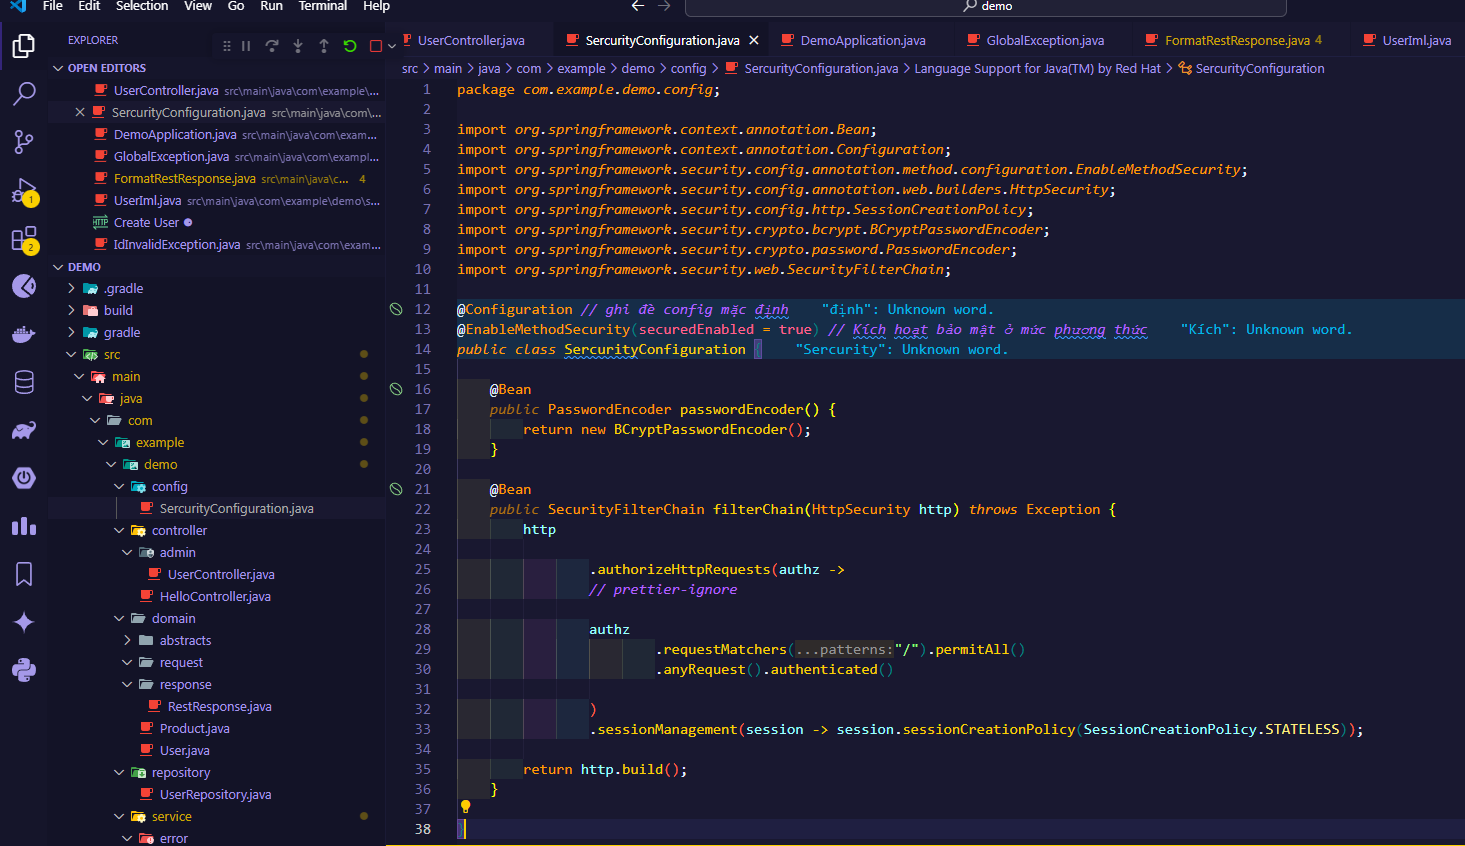
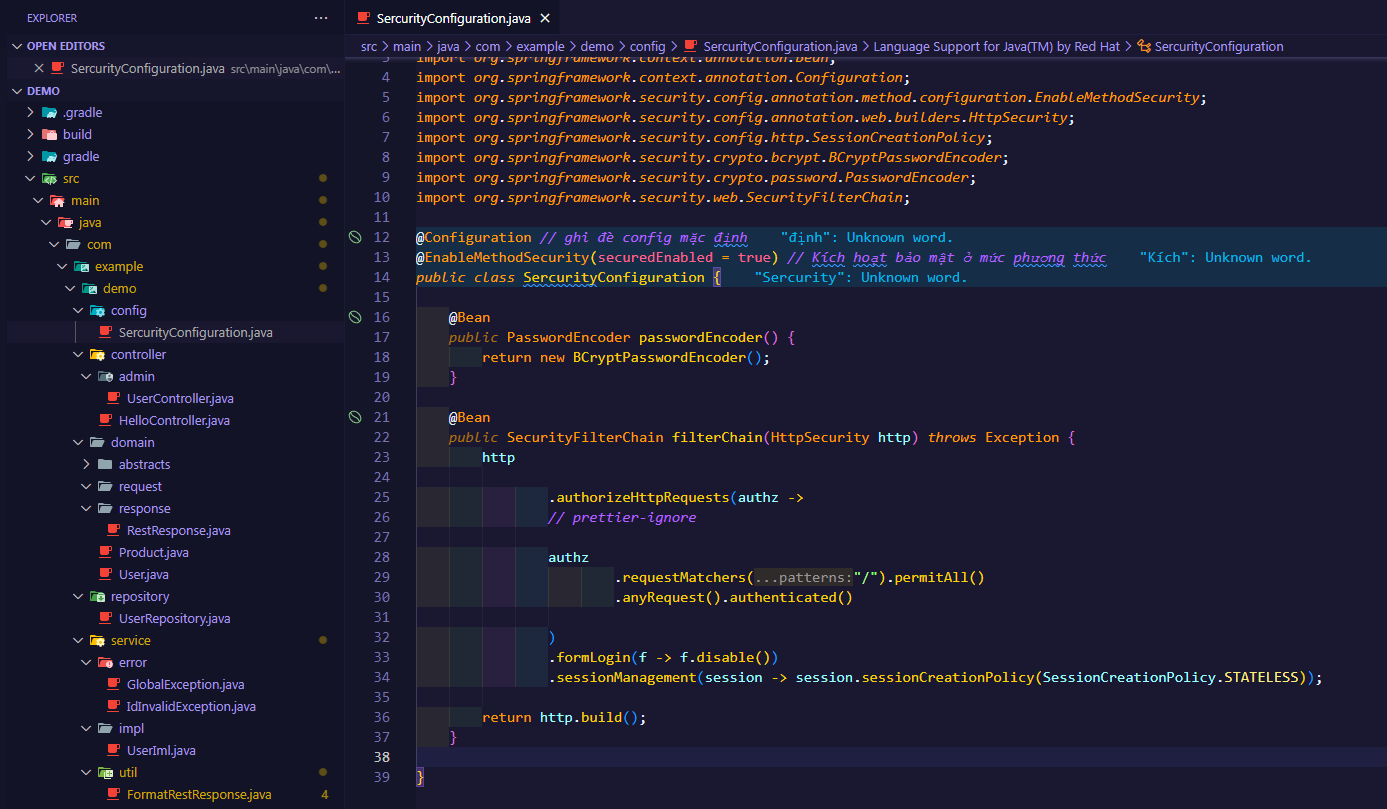
update

diff --git a/java-spring-restful/content/chapter12.html b/java-spring-restful/content/chapter12.html
@@ -1,1 +1,67 @@
-<header><h2 class="heading">Login với JWT</h2></header>
+<header><h1 class="heading">Login với JWT</h1></header>
+<ul>
+  <p class="text-warning">
+    Code thì nhiều lắm , nhớ sao được, chúng ta nên hiểu cái cách hoạt động của
+    nó và copy patse thôi
+  </p>
+  <p>Vẫn luôn chạy theo luồng</p>
+  <li>Đăng nhập thành công -&gt;tạo token</li>
+  <li>Sử dụng token để xác thực qua các api</li>
+</ul>
+
+<section>
+  <h2 class="heading">Tạo enpoint Login</h2>
+  <p class="text-danger">chuẩn bị tài khoản để đăng nhập trước đi nhé</p>
+  <ol>
+    <li>
+      Tạo DTO class login :
+        <p>import dependency vào file gradle.build</p>
+        <div class="code-block">
+  <button class="copy-button" onclick="copyCode(this)">Sao chép</button>
+  <pre>implementation("org.springframework.boot:spring-boot-starter-validation")</pre>
+</div>
+
+      <img src="img/chap12/2.png" width="135%" style="object-fit: cover" />
+      <img src="img/chap12/1.png" width="135%" style="object-fit: cover" />
+    </li>
+    <li>Ghi đè UserDetailsService</li>
+    <img src="img/chap12/3.png" width="135%" style="object-fit: cover" />
+
+    <li>Nâng cấp  GlobalException
+      <p class="text-warning"> Mình sẽ viết hàm createErrorResponse() và   handleAllExceptions() để sau này có thể tránh lặp code.</p>
+
+      <img src="img/chap12/5.png" width="135%" style="object-fit: cover" />
+
+
+    </li>
+    
+    <li>
+      Test postmant:Hãy test với mọi trường hợp lỗi trước (Không điên pass, username ,.. username không tìm thấy ...) ,
+
+      <img src="img/chap12/4.png" width="135%" style="object-fit: cover" />
+    </li>
+  </ol>
+</section>
+<section>
+    <h2 class="heading">Tạo JWT</h2>
+<p class="text-danger">Tạo 1 JWT thì t cần phải hiểu cơ chế của nó trước.Mình sẽ dùng thuật toán base64 , sau này mọi người có thể dùng thuật toán khác để mã hoá</p>
+ <img src="img/chap12/6.png" width="135%" style="object-fit: cover" />
+ <ol>
+  <li>Trước tiên ta sẽ tạo Signature , mình sẽ gọi là <b>Key</b> cho ngắn.
+  <p>Bật gitBash lên gõ lệnh .
+
+    <div class="code-block">
+  <button class="copy-button" onclick="copyCode(this)">Sao chép</button>
+  <pre>openssl rand -base64 64</pre>
+</div>
+Ta sinh ra key ngẫu nhiên  
+
+ <img src="img/chap12/7.png" width="135%" style="object-fit: cover" />
+ <img src="img/chap12/8.png" width="135%" style="object-fit: cover" />
+
+  </p>
+  </li>
+  <li></li>
+  <li></li>
+ </ol>
+</section>

diff --git a/java-spring-restful/content/chapter11.html b/java-spring-restful/content/chapter11.html
@@ -57,7 +57,11 @@
   <div class="code-block">
     <button class="copy-button" onclick="copyCode(this)">Sao chép</button>
     <pre>
-  @Bean
+  @Configuration // ghi đè config mặc định
+@EnableMethodSecurity(securedEnabled = true) // Kích hoạt bảo mật ở mức phương thức
+public class SercurityConfiguration {
+
+    @Bean
     public PasswordEncoder passwordEncoder() {
         return new BCryptPasswordEncoder();
     }
@@ -74,10 +78,13 @@
                         .anyRequest().authenticated()
 
                 )
+                .formLogin(f -&gt; f.disable())
                 .sessionManagement(session -&gt; session.sessionCreationPolicy(SessionCreationPolicy.STATELESS));
 
         return http.build();
     }
+
+}
 </pre
     >
   </div>

diff --git a/index.html b/index.html
@@ -377,7 +377,7 @@
                   />
                 </svg>
               </div>
-              <h3 class="project-title" style="white-space: nowrap;">Java Spring Nâng cao</h3>
+              <h3 class="project-title" style="white-space: nowrap;">Java Spring Bổ trợ</h3>
               <p class="project-description">Backend</p>
 
               <div class="project-tech">

diff --git a/java-spring-restful/code-block.html b/java-spring-restful/code-block.html
@@ -1,4 +1,4 @@
 <div class="code-block">
   <button class="copy-button" onclick="copyCode(this)">Sao chép</button>
-  <pre>code</pre>
+  <pre>openssl rand -base64 64</pre>
 </div>
